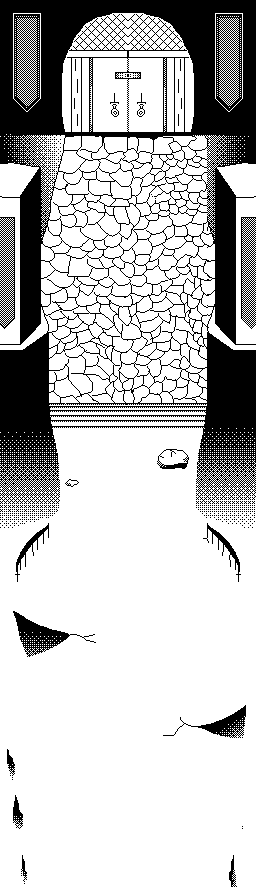
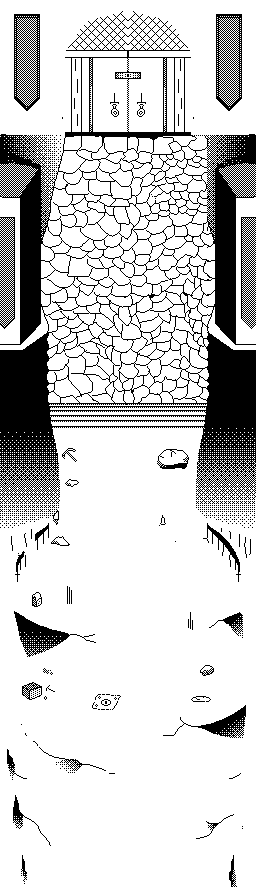
Made edge highlight function ignore the current object's rectangle

diff --git a/gameobject.c b/gameobject.c
@@ -2895,7 +2895,7 @@ void DrawMapHighlight(GameObject* g, int lightSize, ALLEGRO_BITMAP* screen)
     int mapW = GetMapWidth();
     int mapH = GetMapHeight();
     int mapRange = mapW * mapH -1;
-
+    Rect objRect = GetObjRect(g);
 
     while (x < 0)
     {
@@ -2908,7 +2908,6 @@ void DrawMapHighlight(GameObject* g, int lightSize, ALLEGRO_BITMAP* screen)
 
         for (int i = 0; i < 4; i++)
         {
-
             float moveX = (angles[i].x);//cosTable[angle];
             float moveY = (angles[i].y);//sinTable[angle];
 
@@ -2947,6 +2946,10 @@ void DrawMapHighlight(GameObject* g, int lightSize, ALLEGRO_BITMAP* screen)
             {
                 mX += moveX;
                 mY += moveY;
+
+                if (PointInRect(mX,mY,objRect))
+                    continue;
+
 
                 int index = GetIndex(mapH, mX, mY);
 

diff --git a/luafuncs.c b/luafuncs.c
@@ -3684,7 +3684,6 @@ int L_CastAbility(lua_State* l)
         
     if (index < 0 || index >= MAX_ABILITIES)
     {
-        printf("%s: L_CastAbility: index out of range: %i\n",(currGameObjRunning && currGameObjRunning->name) ? currGameObjRunning->name : "",index);
         lua_pushboolean(l,false);
         return 1;
     }
